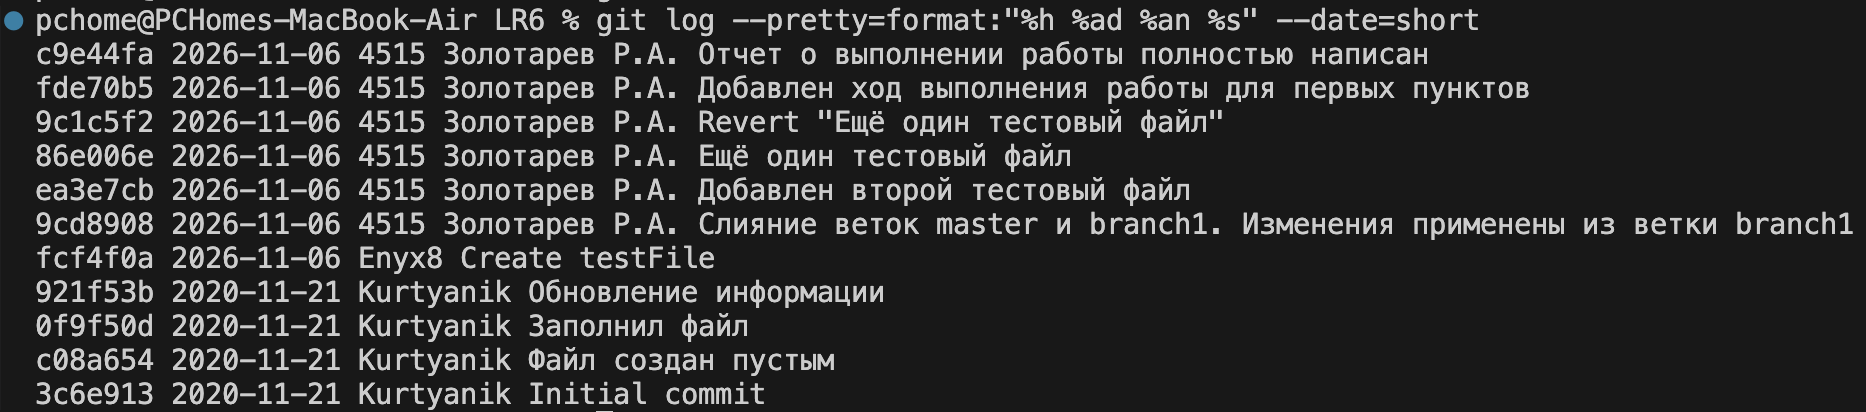
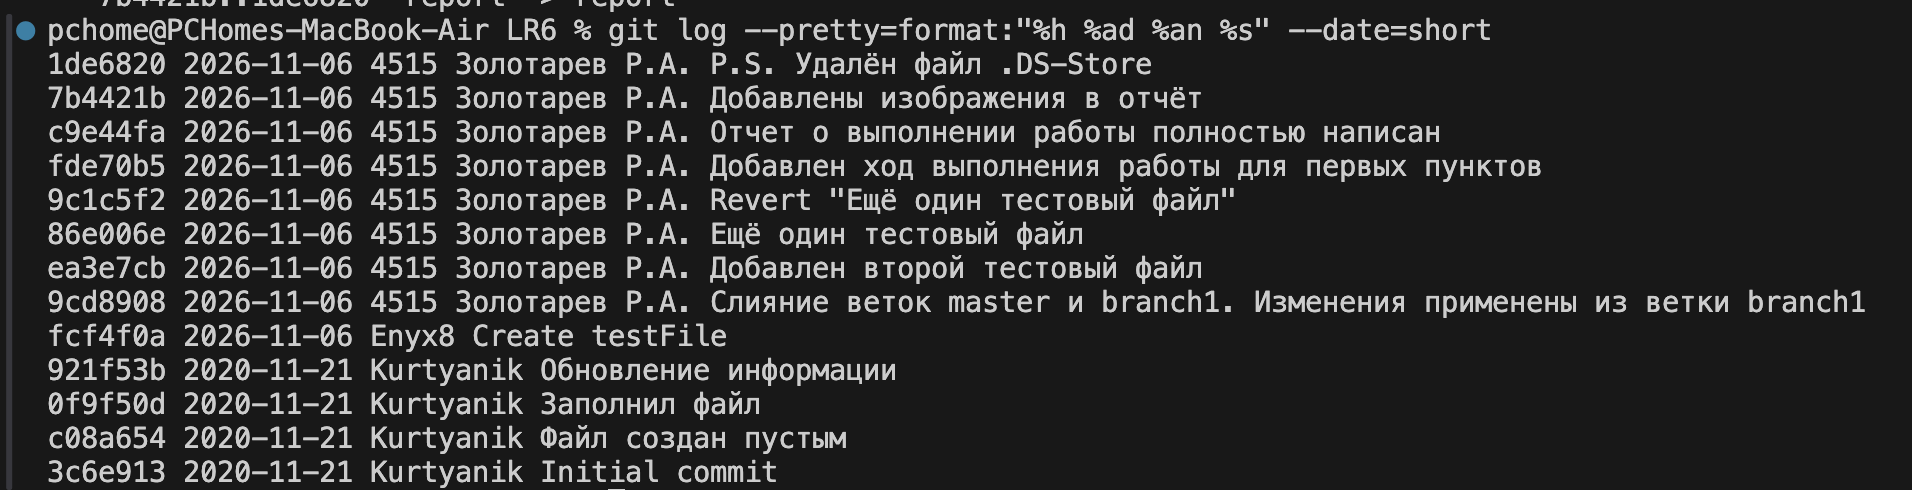
P.S. Исправлены ошибки в оформении отчёта

Changed region(s): [[0.0, 0.0, 0.9946, 0.9903]]

diff --git a/README.md b/README.md
@@ -13,63 +13,73 @@
 Был создан fork репозитория LR6 (рисунки 1.1 и 1.2). Затем командой git clone удалённый репозиторий был загружен локально на ПК.
 
 ![Рисунок 1.1](Images/1.png)
-							Рисунок 1.1 - Создание форка
+Рисунок 1.1 - Создание форка
+
 ![Рисунок 1.1](Images/2.png)
-					Рисунок 1.2 - Созданный форк
+Рисунок 1.2 - Созданный форк
+
 В ветке main через веб-интерфейс был создан файл testFile с текстом внутри (рисунок 1.3). Командой git pull изменения из репозитория на GitHub были загружены в локальных репозиторий (рисунок 1.4).
 
 ![Рисунок 1.1](Images/3.png)
-						Рисунок 1.3 - Новый файл
+Рисунок 1.3 - Новый файл
+
 ![Рисунок 1.1](Images/4.png)
-						Рисунок 1.4 - Команда git pull
+Рисунок 1.4 - Команда git pull
 
 Командой git log master в консоль вывелась история коммитов ветки master (рисунок 1.5). При попытке выполнить команду git log branch1 пявилась ошибка (рисунок 1.6). Причиной стало то, что ветка branch1 не была скопирована в локальный репозиторий (скачалась только ветка master). Чтобы ветка branch1 тоже была на ПК и с ней можно было работать, в консоль была введена команда git checkout branch1 (рисунок 1.7). Система увидела, что в удалённом репозитории есть такая ветка и автоматически загрузила её. Теперь команда git log branch1 выполнилась успешно (рисунок 1.8).
 
 ![Рисунок 1.1](Images/5.png)
-						Рисунок 1.5 - История коммитов ветки master
+Рисунок 1.5 - История коммитов ветки master
+
 ![Рисунок 1.1](Images/6.png)
-						Рисунок 1.6 - Ошибка истории коммитов
+Рисунок 1.6 - Ошибка истории коммитов
+
 ![Рисунок 1.1](Images/7.png)
-						Рисунок 1.7 - Создание локальной ветки branch1
+Рисунок 1.7 - Создание локальной ветки branch1
+
 ![Рисунок 1.1](Images/8.png)
-						Рисунок 1.8 - История коммитов ветки branch1
+Рисунок 1.8 - История коммитов ветки branch1
 
 Командой git show было выведено последнее изменение в ветке master (рисунок 1.9). Хоть я и задал config.name, здесь был укзаан никнейм с сайта. Это произошло из-за того, что тот файл я создавал через веб-интерфейс, а не локально. Этой же командой я вывел последнее изменение в ветке branch1, переключившись на неё (рисунок 1.10).
 
 ![Рисунок 1.1](Images/9.png)
-						Рисунок 1.9 - Последний коммит ветки master
+Рисунок 1.9 - Последний коммит ветки master
+
 ![Рисунок 1.1](Images/10.png)
-						Рисунок 1.10 - Последний коммит ветки branch1
+Рисунок 1.10 - Последний коммит ветки branch1
 
 Когда я попытался выполнить команду git merge branch1, чтобы слить изменения из ветки branch1 с веткой master, появилась ошибка с конфликтом слияния (рисунок 1.11). Чтобы исправить её, я выбрал вариант с заменой содержимого файла из ветки master на содержимое файла из ветки branch1. Это можно было сделать в файле, который виден на рисунке 1.12). В итоге содержимое файла mergefile.txt выглядит так, как на рисунке 1.13.
 
 ![Рисунок 1.1](Images/11.png)
-						Рисунок 1.11 - Ошибка слияния веток
+Рисунок 1.11 - Ошибка слияния веток
+
 ![Рисунок 1.1](Images/12.png)
-						Рисунок 1.12 - Устранение ошибки слияния веток
+Рисунок 1.12 - Устранение ошибки слияния веток
+
 ![Рисунок 1.1](Images/13.png)
-						Рисунок 1.13 - Новое содержимое файла mergefile.txt
+Рисунок 1.13 - Новое содержимое файла mergefile.txt
 
 Затем я закоммитил изменения и удалил ветку branch1 (рисунки 1.14 и 1.15).
 
 ![Рисунок 1.1](Images/14.png)
 						Рисунок 1.14 - Новый коммит
 ![Рисунок 1.1](Images/15.png)
-						Рисунок 1.15 - Удаление (локально) ветки branch1
+Рисунок 1.15 - Удаление (локально) ветки branch1
 
 Далее были созданы еще несколько тестовых файлов, а изменения были закоммичены (рисунки 1.16 и 1.17).
 
 ![Рисунок 1.1](Images/16.png)
-						Рисунок 1.16 - Новый тестовый файл
+Рисунок 1.16 - Новый тестовый файл
+
 ![Рисунок 1.1](Images/17.png)
-						Рисунок 1.17 - Коммиты тестовых файлов
+Рисунок 1.17 - Коммиты тестовых файлов
 
 Наконец, последнее изменение было отменено командой git revert HEAD (рисунок 1.18).
 
 ![Рисунок 1.1](Images/18.png)
-						Рисунок 1.18 - Отмена последнего коммита
+Рисунок 1.18 - Отмена последнего коммита
 
-История изменений в форматированном виде видна на рисунке 1.19.
+В паре последних коммитах (включая финальный, который не отобразится на рисунке ниже) были исправлены ошибки в написании отчёта. История изменений в форматированном виде видна на рисунке 1.19.
 
 ![Рисунок 1.1](Images/19.png)
-					Рисунок 1.19 - История изменений в форматированном виде
+Рисунок 1.19 - История изменений в форматированном виде
